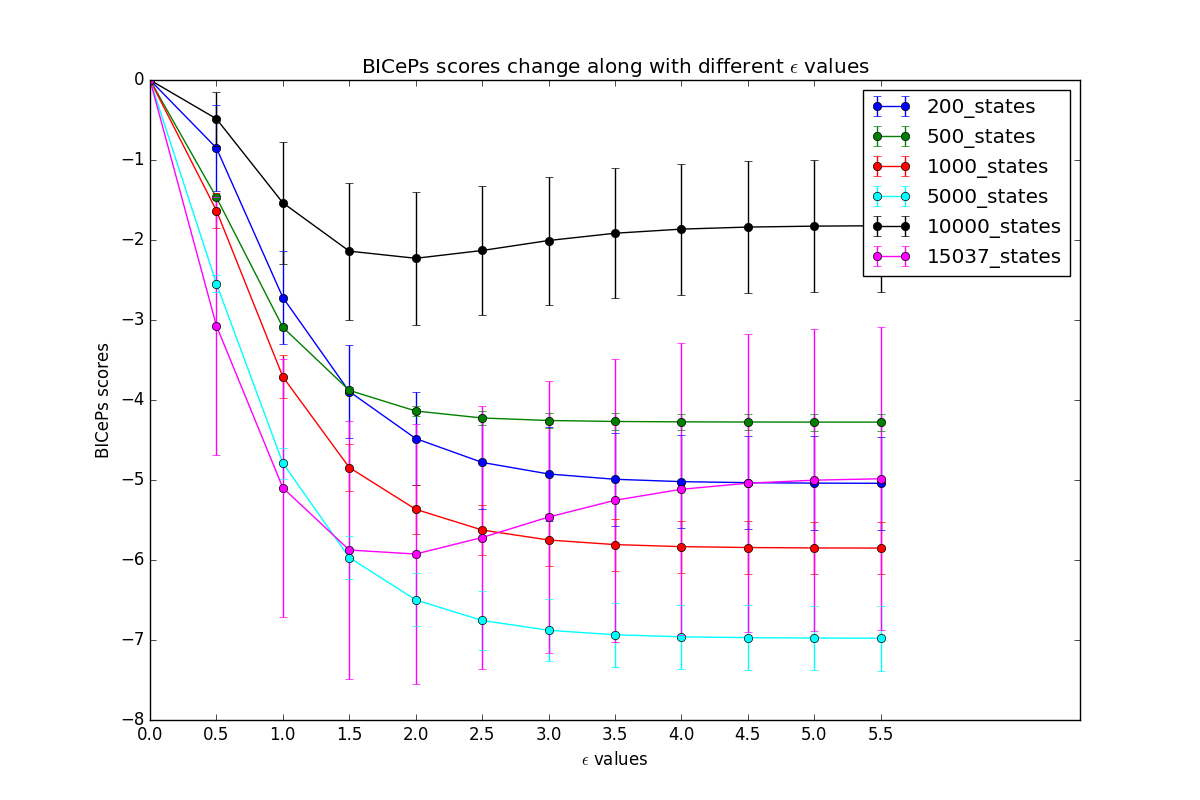
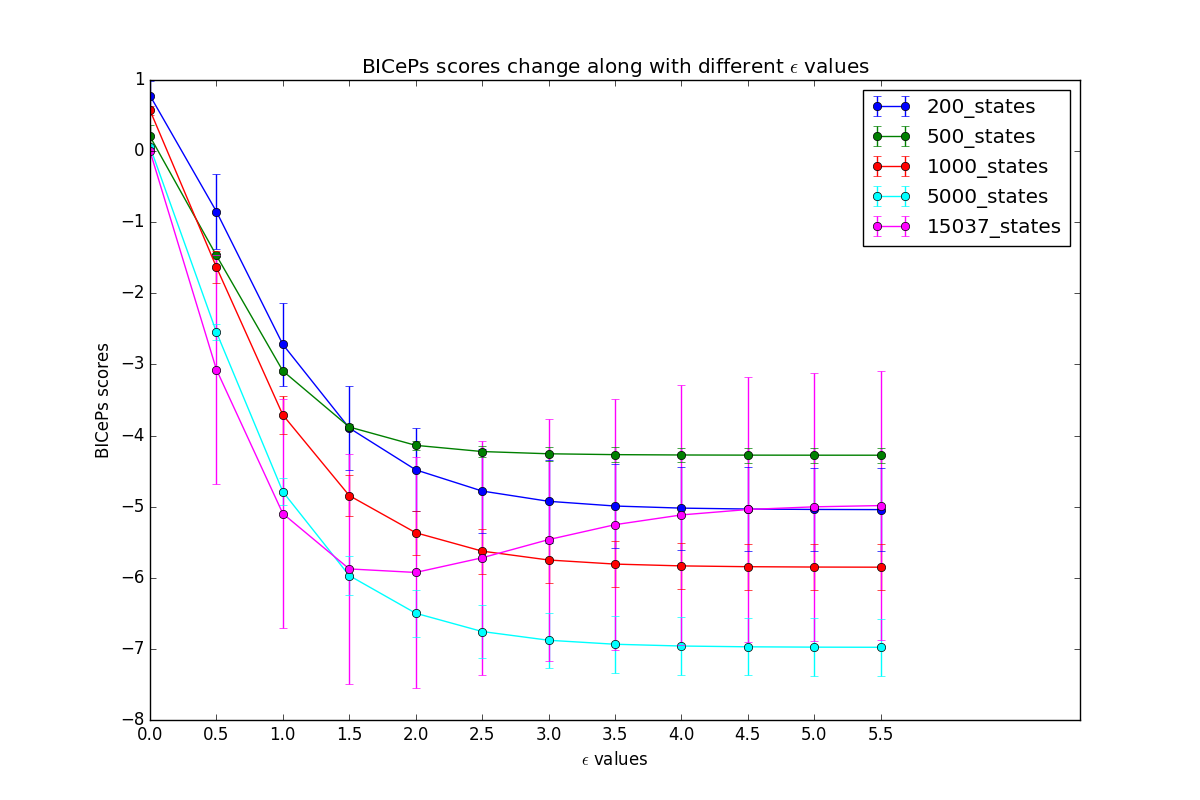
fixed a mistake of BS when eps = 0.0

diff --git a/projects/new_paper/checkpoint/lattice/new_MBAR_results/macro_new_clsuter/macro_cluster/new_cluster_plot.py b/projects/new_paper/checkpoint/lattice/new_MBAR_results/macro_new_clsuter/macro_cluster/new_cluster_plot.py
@@ -1,12 +1,12 @@
 import sys, os
 import numpy as np
 from matplotlib import pyplot as plt
+#%matplotlib inline
 l=np.arange(0.0,6.0,0.5)
-
 #l=np.arange(0.0,10.5,0.5)
 #path=["1M_1", "1M_2", "1M_3"]
 color=['blue','green','red','cyan','black']
-state=['200','500','1000','5000','10000']
+state=['200','500','1000','5000']
 path=['1','2','3','4','5','6','7','8','9']
 error=dict()
 point=dict()
@@ -19,7 +19,7 @@ if (1):
 			g[i]=[]
 			for j in range(len(path)):
 				a=np.loadtxt('%s/%s/BF_ref_normal.dat'%(path[j],state[k]))
-				g[i].append(a[i][0])
+				g[i].append(a[i+1][0])
 			point[k].append(np.mean(g[i]))	
 			error[k].append(np.std(g[i]))
 
@@ -49,38 +49,11 @@ if (1):
 #	plt.plot(l,point,"-o")
 	for k in range(len(state)):
 		plt.errorbar(l,point[k],yerr=error[k],fmt="-o",color=color[k],label='%s_states'%state[k])
-#	plt.errorbar(l,point_G,yerr=error_G,fmt="-o",color='magenta',label='15037_states')
+	plt.errorbar(l,point_G,yerr=error_G,fmt="-o",color='magenta',label='15037_states')
 	plt.legend(loc='upper right')
 	plt.xlabel(r'$\epsilon$ values')
 	plt.ylabel('BICePs scores')
 	plt.title(r'BICePs scores change along with different $\epsilon$ values')
-#	plt.savefig('new_cluster_whole.png')
-	plt.savefig('new_cluster.png')
+	plt.savefig('new_cluster_whole.png')
+#	plt.savefig('new_cluster.png')
 	plt.show()
-	sys.exit()
-
-
-
-
-BS=[]
-for i in l:
-	b=np.loadtxt('results/micro/%.1f/BF_ref_normal.dat'%i)
-	BS.append(b[1][0])
-#print len(BS)
-#print BS
-plt.figure(figsize=(12,8))
-plt.xticks(l)
-plt.plot(l,BS,"-o")
-plt.xlabel(r'$\epsilon$ values')
-plt.ylabel('BICePs scores')
-plt.title(r'BICePs scores change along with different $\epsilon$ values')
-plt.savefig('BS_gaussian_diffglobal_micro.pdf')
-plt.show()
-
-
-
-
-
-
-	
-	
